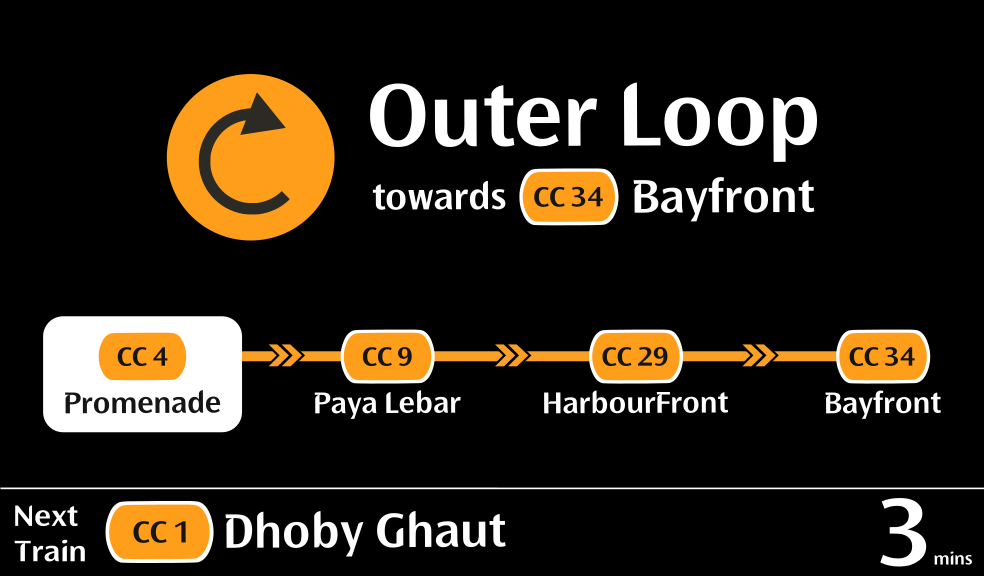
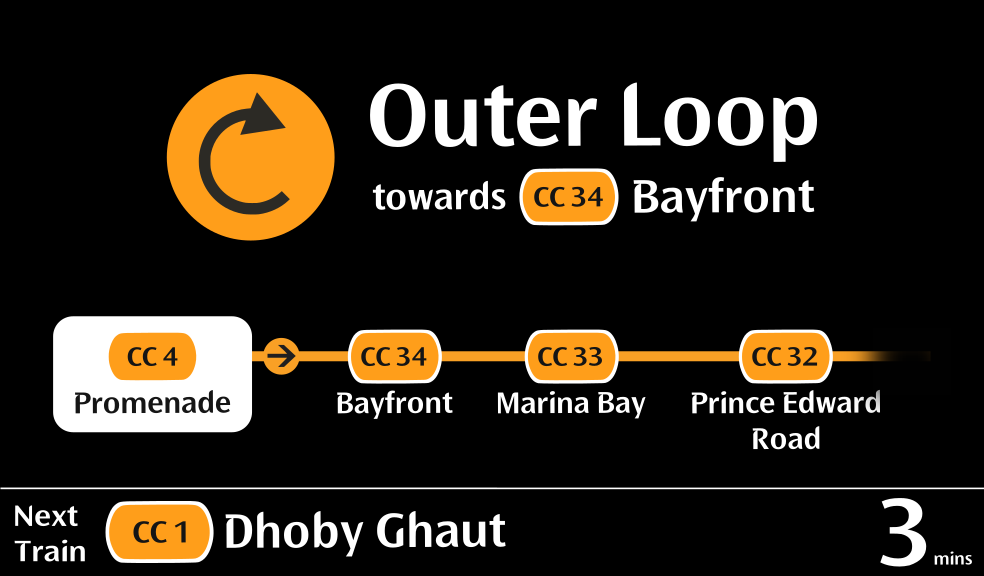
2025-03 Cumulative Update for Version 2502 (EICW)

diff --git a/eicw-interactive-4.html b/eicw-interactive-4.html
@@ -222,8 +222,9 @@
                       • Black background <br>
                       • Single coloured caplet with station codes for non-loop services <span style="color: #80a8cc;">&
                         interchange stations to save space</span> <br>
-                      • Indication of train service direction - towards < next interchange station> for loop services <br>
-                      • UI is matched exactly to the ones found in TEL
+                      • Indication of train service direction - towards < next interchange station> for loop services
+                        <br>
+                        • UI is matched exactly to the ones found in TEL
                     </p>
                   </figcaption>
                 </div>
@@ -261,6 +262,21 @@
                       <img src="img/eicw/ccl6-1.png" id="os-img" class="img-fluid cp-img" alt="os">
                     </a>
                   </figcaption>
+                </div>
+                <div class="column column-pic">
+                  <figcaption>
+                    <a href="img/eicw/ccl6-1a.png" id="os" class="portfolio-img ">
+                      <img src="img/eicw/ccl6-1a.png" id="os-img" class="img-fluid cp-img" alt="os">
+                    </a>
+                  </figcaption>
+                </div>
+
+                <div class="column column-pic">
+                  <figcaption>
+                    <a href="img/eicw/ccl6-5.png" id="os" class="portfolio-img ">
+                      <img src="img/eicw/ccl6-5.png" id="os-img" class="img-fluid cp-img" alt="os">
+                    </a>
+                  </figcaption>
                   <p style="text-align: left;">The proposed design follows the same design principles as Thomson East
                     Coast Line (TEL) and other newer lines, mainly:<br>
                     • Black background <br>
@@ -269,8 +285,8 @@
                 </div>
                 <div class="column column-pic">
                   <figcaption>
-                    <a href="img/eicw/ccl6-1a.png" id="os" class="portfolio-img ">
-                      <img src="img/eicw/ccl6-1a.png" id="os-img" class="img-fluid cp-img" alt="os">
+                    <a href="img/eicw/ccl6-5a.png" id="os" class="portfolio-img ">
+                      <img src="img/eicw/ccl6-5a.png" id="os-img" class="img-fluid cp-img" alt="os">
                     </a>
                     <p style="text-align: left;">My Redesign included the train service direction on the waiting page in
                       a linear manner. The stations picked are Interchange Stations in which the loop will serve.
@@ -278,7 +294,61 @@
                       • Black background <br>
                       • Single coloured caplet with station codes for non-loop services <span style="color: #80a8cc;">&
                         interchange stations to save space</span> <br>
-                      • Indication of train service direction - towards < next interchange station> for loop services <br>
+                      • Indication of train service direction - towards < next interchange station> for loop services
+                        <br>
+                        • UI is matched exactly to the ones found in TEL
+                    </p>
+                  </figcaption>
+                </div>
+              </div>
+
+            </div>
+          </div>
+        </div>
+      </div>
+    </div>
+    <hr>
+    </div>
+  </section>
+
+  <!-- Touch Point 7B - Arrival Page for Non-Loop Service  -->
+  <section class="about-me-summ section-padding-80-0 clearfix" style="padding-top: 10px; padding-bottom: 3px;">
+    <div class="wbnrfz_details">
+      <div class="container container-mobile">
+        <div class="row justify-content-center">
+          <div class="col-lg-12">
+            <div class="row justify-content-center">
+              <div class="col-lg-12 wow fadeInUp" data-wow-delay="100ms">
+                <div class="info justify-content-center">
+                  <h2 class="mb-3 text-center" style="font-size: 30px; font-weight:bold; text-align: left;">Touch Point
+                    7B - Arrival Page for Non-Loop Service </h2>
+                  </p>
+                </div>
+              </div>
+
+              <div class="row">
+                <div class="column column-pic">
+                  <figcaption>
+                    <a href="img/eicw/ccl6-4.png" id="os" class="portfolio-img ">
+                      <img src="img/eicw/ccl6-4.png" id="os-img" class="img-fluid cp-img" alt="os">
+                    </a>
+                  </figcaption>
+                  <p style="text-align: left;">The proposed design follows the same design principles as Thomson East
+                    Coast Line (TEL) and other newer lines, mainly:<br>
+                    • Black background <br>
+                    • Single coloured caplet with station codes for non-loop services </p>
+                </div>
+                <div class="column column-pic">
+                  <figcaption>
+                    <a href="img/eicw/ccl6-4a.png" id="os" class="portfolio-img ">
+                      <img src="img/eicw/ccl6-4a.png" id="os-img" class="img-fluid cp-img" alt="os">
+                    </a>
+                    <p style="text-align: left;">My Redesign included the train service direction on the waiting page in
+                      a linear manner. The stations picked are Interchange Stations in which the loop will serve.
+                      Retains the same guidelines, mainly: <br>
+                      • Black background <br>
+                      • Single coloured caplet with station codes for non-loop services <span style="color: #80a8cc;">&
+                        interchange stations to save space</span> <br>
                       • UI is matched exactly to the ones found in TEL
                     </p>
                   </figcaption>
@@ -331,8 +401,9 @@
                       Stations in which the loop will serve.
                       Retains the same guidelines, mainly: <br>
                       • Black background <br>
-                      • Indication of train service direction - towards < next interchange station> for loop services <br>
-                      • UI is matched exactly to the ones found in TEL
+                      • Indication of train service direction - towards < next interchange station> for loop services
+                        <br>
+                        • UI is matched exactly to the ones found in TEL
                     </p>
                   </figcaption>
                 </div>
